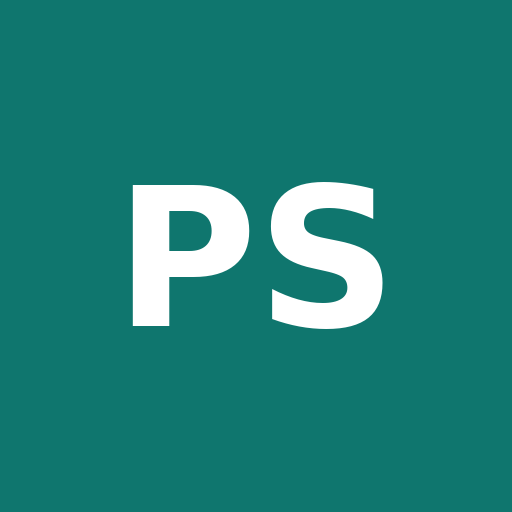
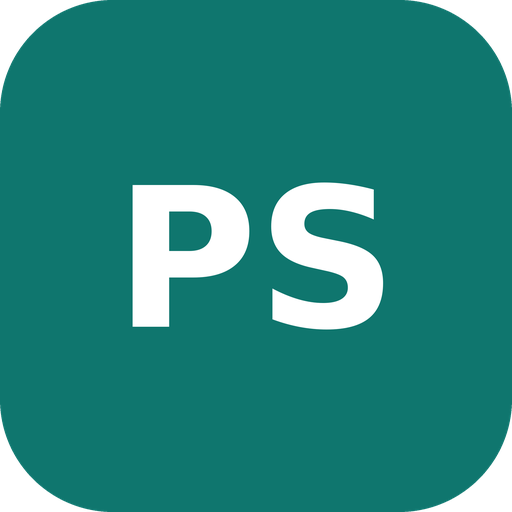
Limite diário de entrevistas válidas (encerra o dia), menu sem barra de rolagem, ícones arredondados
Claude-Session: https://claude.ai/code/session_01QqTsuTJ65w427ux9Q4oBVU

diff --git a/lib/app.js b/lib/app.js
@@ -82,7 +82,7 @@ const etapaNome = k => (ETAPAS.find(e=>e[0]===k)||[k,k])[1];
 const RAPIDA = 90; // segundos: entrevista completa abaixo disso é sinalizada
 
 /* ================= Dados (carregados do Supabase) ================= */
-const DB = { config:{ diaria:80, minimo:10, metaBonus:15, bonusValor:4, bonusSoLeads:false, comissao:60 }, users:[], presencas:[], entrevistas:[] };
+const DB = { config:{ diaria:80, minimo:10, metaBonus:15, bonusValor:4, bonusSoLeads:false, comissao:60, limite:30 }, users:[], presencas:[], entrevistas:[] };
 const adminU = () => DB.users.find(u=>u.papel==="admin") || me;
 
 /* ================= Regras: diária, bônus e validação ================= */
@@ -166,12 +166,12 @@ function resumoUser(u, ini, fim){
 }
 function progresso(info){
   const c = DB.config, v = info.validas.length;
-  const max = Math.max(c.metaBonus + 6, v + 2);
+  const max = c.limite>0 ? Math.max(c.limite, v) : Math.max(c.metaBonus + 6, v + 2);
   const w = v/max*100, pm = c.minimo/max*100, pb = c.metaBonus/max*100;
   const split = v>c.metaBonus ? (c.metaBonus/v*100)+"%" : "100%";
   return `<div class="prog"><div class="fill ${v>c.metaBonus?"over":""}" style="width:${w}%;--split:${split}"></div>
     <div class="mk min" style="left:${pm}%"><span>mínimo ${c.minimo}</span></div>
-    <div class="mk meta" style="left:${pb}%"><span>bônus a partir de ${c.metaBonus+1}ª</span></div></div>`;
+    <div class="mk meta" style="left:${pb}%"><span>bônus a partir de ${c.metaBonus+1}ª</span></div>${c.limite>0?`<div class="mk min lim" style="left:calc(100% - 2px)"><span>limite ${c.limite}</span></div>`:""}</div>`;
 }
 
 /* ================= Sessão ================= */
@@ -213,10 +213,12 @@ function headerEnt(){
 function painelHoje(info){
   const c = DB.config, v = info.validas.length;
   let msg;
+  const limiteAtingido = c.limite>0 && v>=c.limite && me && me.papel!=="admin";
   if(info.status==="reprovada") msg = `<div class="notice bad">Diária de hoje reprovada pelo administrador.${info.p.motivo?" Motivo: "+esc(info.p.motivo):""}</div>`;
   else if(v < c.minimo) msg = `<div class="notice warn">Falta${info.faltaMin===1?"":"m"} <b>${info.faltaMin}</b> entrevista${info.faltaMin===1?"":"s"} válida${info.faltaMin===1?"":"s"} para garantir a diária de ${brl(c.diaria)}.</div>`;
   else if(v <= c.metaBonus) msg = `<div class="notice">Diária garantida ✓ Faltam <b>${c.metaBonus-v+1}</b> para começar a ganhar ${brl(c.bonusValor)} por entrevista${c.bonusSoLeads?" com contato":""} extra.</div>`;
-  else msg = `<div class="notice gold">Diária garantida ✓ Você já está no bônus: <b>${info.extras}</b> extra${info.extras===1?"":"s"} = <b>${brl(info.bonusPrevisto)}</b> a mais hoje.</div>`;
+  else if(limiteAtingido) msg = `<div class="notice gold"><b>Limite de ${c.limite} entrevistas válidas atingido 🎉</b> O dia foi encerrado automaticamente. Hoje: diária + <b>${info.extras}</b> extra${info.extras===1?"":"s"} = <b>${brl(info.bonusPrevisto)}</b> de bônus.</div>`;
+  else msg = `<div class="notice gold">Diária garantida ✓ Você já está no bônus: <b>${info.extras}</b> extra${info.extras===1?"":"s"} = <b>${brl(info.bonusPrevisto)}</b> a mais hoje.${c.limite>0?` Faltam <b>${c.limite-v}</b> para o limite do dia.`:""}</div>`;
   return `${progresso(info)}
     <div class="stats"><div class="stat"><b>${v}</b><span>válidas</span></div><div class="stat"><b style="color:${info.incompletas.length?"var(--bad)":"inherit"}">${info.incompletas.length}</b><span>inválidas</span></div><div class="stat"><b>${info.recusas}</b><span>recusas</span></div><div class="stat"><b>${brl(info.paga||info.andamento&&info.atingiu?c.diaria+info.bonusPrevisto:0)}</b><span>${info.andamento?"previsto hoje":"ganho hoje"}</span></div></div>
     <div style="margin-top:12px">${msg}</div>
@@ -247,7 +249,7 @@ function telaDia(){
   </div>
   <div class="card"><h2>Como você ganha</h2><div class="meta" style="font-size:14px">
     • <b>Diária de ${brl(DB.config.diaria)}</b> com pelo menos ${DB.config.minimo} entrevistas válidas no dia.<br>
-    • <b>+ ${brl(DB.config.bonusValor)}</b> por entrevista${DB.config.bonusSoLeads?" com contato":" válida"} a partir da ${DB.config.metaBonus+1}ª do dia.<br>
+    • <b>+ ${brl(DB.config.bonusValor)}</b> por entrevista${DB.config.bonusSoLeads?" com contato":" válida"} a partir da ${DB.config.metaBonus+1}ª do dia${DB.config.limite>0?`, até o limite de ${DB.config.limite} válidas (ao atingir, o dia encerra sozinho)`:""}.<br>
     • <b>+ ${brl(DB.config.comissao)}</b> por venda fechada de quem você entrevistou.<br>
     Entrevistas muito rápidas ou com WhatsApp repetido podem ser invalidadas pelo administrador.
   </div><div style="margin-top:10px">${regraValida()}</div></div>
@@ -589,7 +591,7 @@ function telaDiario(){
       ${p.aprovacao?`<button class="btn sm" data-auto="${p.id}">Voltar ao automático</button>`:""}
     </div></div>`; }).join("") : `<div class="card empty">Ninguém trabalhou neste dia.</div>`}</div>`;
   return `${headerAdm()}
-  <div class="notice">Regra automática: entrevista só é válida com nome, telefone, aceite do WhatsApp, modelo e ano do carro. Diária válida com ${c.minimo}+ entrevistas válidas. Bônus de ${brl(c.bonusValor)} por entrevista${c.bonusSoLeads?" com contato":""} a partir da ${c.metaBonus+1}ª. Você pode aprovar ou reprovar qualquer dia manualmente.</div>
+  <div class="notice">Regra automática: entrevista só é válida com nome, telefone, aceite do WhatsApp, modelo e ano do carro. Diária válida com ${c.minimo}+ entrevistas válidas. Bônus de ${brl(c.bonusValor)} por entrevista${c.bonusSoLeads?" com contato":""} a partir da ${c.metaBonus+1}ª. ${c.limite>0?` Limite de ${c.limite} válidas por dia: ao atingir, o dia do entrevistador encerra sozinho.`:""} Você pode aprovar ou reprovar qualquer dia manualmente.</div>
   ${grade}${det}`;
 }
 function listaEntrevistas(){
@@ -674,9 +676,10 @@ function telaPagamentos(){
       <div><label class="f" for="cb">Bônus começa depois de (entrevistas válidas)</label><input type="number" id="cb" data-cfg="metaBonus" value="${c.metaBonus}" min="0" inputmode="numeric"></div>
       <div><label class="f" for="cv">Valor por entrevista extra (R$)</label><input type="number" id="cv" data-cfg="bonusValor" value="${c.bonusValor}" min="0" step="0.5" inputmode="decimal"></div>
       <div><label class="f" for="cc">Comissão por venda fechada (R$)</label><input type="number" id="cc" data-cfg="comissao" value="${c.comissao}" min="0" inputmode="decimal"></div>
+      <div><label class="f" for="cl">Limite de entrevistas válidas por dia (0 = sem limite)</label><input type="number" id="cl" data-cfg="limite" value="${c.limite}" min="0" inputmode="numeric"></div>
       <div><label class="f">Quais extras recebem bônus</label><select data-cfg="bonusSoLeads"><option value="0" ${!c.bonusSoLeads?"selected":""}>Toda entrevista válida</option><option value="1" ${c.bonusSoLeads?"selected":""}>Só as que deixaram contato</option></select></div>
     </div>
-    <div class="meta" style="margin-top:8px">Exemplo com as regras atuais: quem faz ${c.metaBonus+5} entrevistas válidas no dia recebe ${brl(c.diaria)} + 5 × ${brl(c.bonusValor)} = <b>${brl(c.diaria+5*c.bonusValor)}</b>${c.bonusSoLeads?" (se as 5 extras tiverem contato)":""}. Recusa não conta como entrevista válida.</div>
+    <div class="meta" style="margin-top:8px">${(()=>{ const x = c.limite>0 ? Math.max(1,Math.min(5,c.limite-c.metaBonus)) : 5; return `Exemplo com as regras atuais: quem faz ${c.metaBonus+x} entrevistas válidas no dia recebe ${brl(c.diaria)} + ${x} × ${brl(c.bonusValor)} = <b>${brl(c.diaria+x*c.bonusValor)}</b>${c.bonusSoLeads?` (se as ${x} extras tiverem contato)`:""}.`; })()} Recusa não conta como entrevista válida.${c.limite>0?` Ao chegar a ${c.limite} válidas, o dia do entrevistador é encerrado automaticamente: o bônus máximo por dia é ${c.limite-c.metaBonus} × ${brl(c.bonusValor)} = <b>${brl(Math.max(0,c.limite-c.metaBonus)*c.bonusValor)}</b>. Para você (admin) não há limite.`:""}</div>
   </div>
   ${seletorPeriodo()}
   <div class="card"><h2>${nome} · ${br(ini)} a ${br(fim)}</h2><div class="tablewrap"><table>
@@ -815,7 +818,9 @@ document.addEventListener("change", ev=>{
   if(d.cfg){
     const c=DB.config;
     if(d.cfg==="bonusSoLeads") c.bonusSoLeads = t.value==="1"; else c[d.cfg]=Math.max(0,Number(t.value)||0);
-    if(c.metaBonus < c.minimo){ c.metaBonus = c.minimo; toast("O bônus não pode começar antes do mínimo da diária"); } else toast("Regra atualizada");
+    if(c.metaBonus < c.minimo){ c.metaBonus = c.minimo; toast("O bônus não pode começar antes do mínimo da diária"); }
+    else if(c.limite>0 && c.limite <= c.metaBonus){ c.limite = c.metaBonus + 1; toast("O limite precisa ser maior que o início do bônus"); }
+    else toast("Regra atualizada");
     salvarConfig(); render();
   }
   if(t.id==="local"){ localAtual=t.value.trim(); }
@@ -869,7 +874,7 @@ function toDbEnt(e){
     venc_mes: e.vencMes===""||e.vencMes==null ? null : Number(e.vencMes) };
 }
 const fromDbPres = r => ({ id:r.id, userId:r.user_id, dia:r.dia, inicio:horaSP(r.inicio), fim:r.fim?horaSP(r.fim):null, aprovacao:r.aprovacao||null, motivo:r.motivo||"" });
-const fromDbCfg = r => ({ diaria:+r.diaria, minimo:+r.minimo, metaBonus:+r.meta_bonus, bonusValor:+r.bonus_valor, bonusSoLeads:!!r.bonus_so_leads, comissao:+r.comissao });
+const fromDbCfg = r => ({ diaria:+r.diaria, minimo:+r.minimo, metaBonus:+r.meta_bonus, bonusValor:+r.bonus_valor, bonusSoLeads:!!r.bonus_so_leads, comissao:+r.comissao, limite:+(r.limite_diario||0) });
 const fromDbUser = r => ({ id:r.id, nome:r.nome||r.email||"", email:r.email||"", tel:r.tel||"", papel:r.papel, ativo:!!r.ativo });
 
 async function todos(tabela, ordem){
@@ -934,6 +939,12 @@ async function enviarUma(obj){
   }
   const i = DB.entrevistas.findIndex(x=>x.id===obj.id);
   if(i>=0) DB.entrevistas[i] = novo; else DB.entrevistas.push(novo);
+  if(me.papel!=="admin"){
+    const { data:pr } = await sb.from("presencas").select("*").eq("user_id", me.id).eq("dia", novo.dia).maybeSingle();
+    if(pr){ const p = fromDbPres(pr); const j = DB.presencas.findIndex(x=>x.id===p.id); const antes = j>=0 ? DB.presencas[j].fim : null;
+      if(j>=0) DB.presencas[j]=p; else DB.presencas.push(p);
+      if(p.fim && !antes){ toast("Limite do dia atingido: dia encerrado automaticamente"); } }
+  }
   return novo;
 }
 async function salvarEntrevista(obj){
@@ -983,7 +994,7 @@ function salvarConfig(){
   clearTimeout(tCfg);
   tCfg = setTimeout(async()=>{
     const c = DB.config;
-    const { error } = await sb.from("config").update({ diaria:c.diaria, minimo:c.minimo, meta_bonus:c.metaBonus, bonus_valor:c.bonusValor, bonus_so_leads:c.bonusSoLeads, comissao:c.comissao, atualizado_em:new Date().toISOString() }).eq("id",1);
+    const { error } = await sb.from("config").update({ diaria:c.diaria, minimo:c.minimo, meta_bonus:c.metaBonus, bonus_valor:c.bonusValor, bonus_so_leads:c.bonusSoLeads, comissao:c.comissao, limite_diario:c.limite, atualizado_em:new Date().toISOString() }).eq("id",1);
     if(error) toast("Não foi possível salvar a regra: "+msgErro(error));
   }, 400);
 }

diff --git a/app/globals.css b/app/globals.css
@@ -220,3 +220,8 @@ tr.total td{font-weight:700}
 .banner-fila{position:sticky;top:0;z-index:12;background:var(--warm-soft);color:var(--warm);font-size:13px;padding:8px 12px;text-align:center;border-bottom:1px solid var(--line)}
 .side .foot{display:flex;flex-direction:column;align-items:flex-start;gap:2px}
 button:disabled{cursor:not-allowed}
+
+.prog .mk.lim span{left:auto;right:0;transform:none}
+/* menu lateral sem barra de rolagem visível */
+.side{scrollbar-width:none;-ms-overflow-style:none}
+.side::-webkit-scrollbar{display:none;width:0;height:0}

diff --git a/app/layout.js b/app/layout.js
@@ -5,7 +5,7 @@ export const metadata = {
   description: "Pesquisa de campo e CRM para venda de seguro auto",
   manifest: "/manifest.webmanifest",
   appleWebApp: { capable: true, title: "Pesquisa", statusBarStyle: "default" },
-  icons: { icon: "/icon-192.png", apple: "/apple-touch-icon.png" },
+  icons: { icon: [{ url: "/favicon-32.png", sizes: "32x32" }, { url: "/icon-192.png", sizes: "192x192" }], apple: "/apple-touch-icon.png" },
   formatDetection: { telephone: false },
 };
 

diff --git a/app/manifest.js b/app/manifest.js
@@ -11,7 +11,7 @@ export default function manifest() {
     icons: [
       { src: "/icon-192.png", sizes: "192x192", type: "image/png" },
       { src: "/icon-512.png", sizes: "512x512", type: "image/png" },
-      { src: "/icon-512.png", sizes: "512x512", type: "image/png", purpose: "maskable" },
+      { src: "/icon-maskable-512.png", sizes: "512x512", type: "image/png", purpose: "maskable" },
     ],
   };
 }
